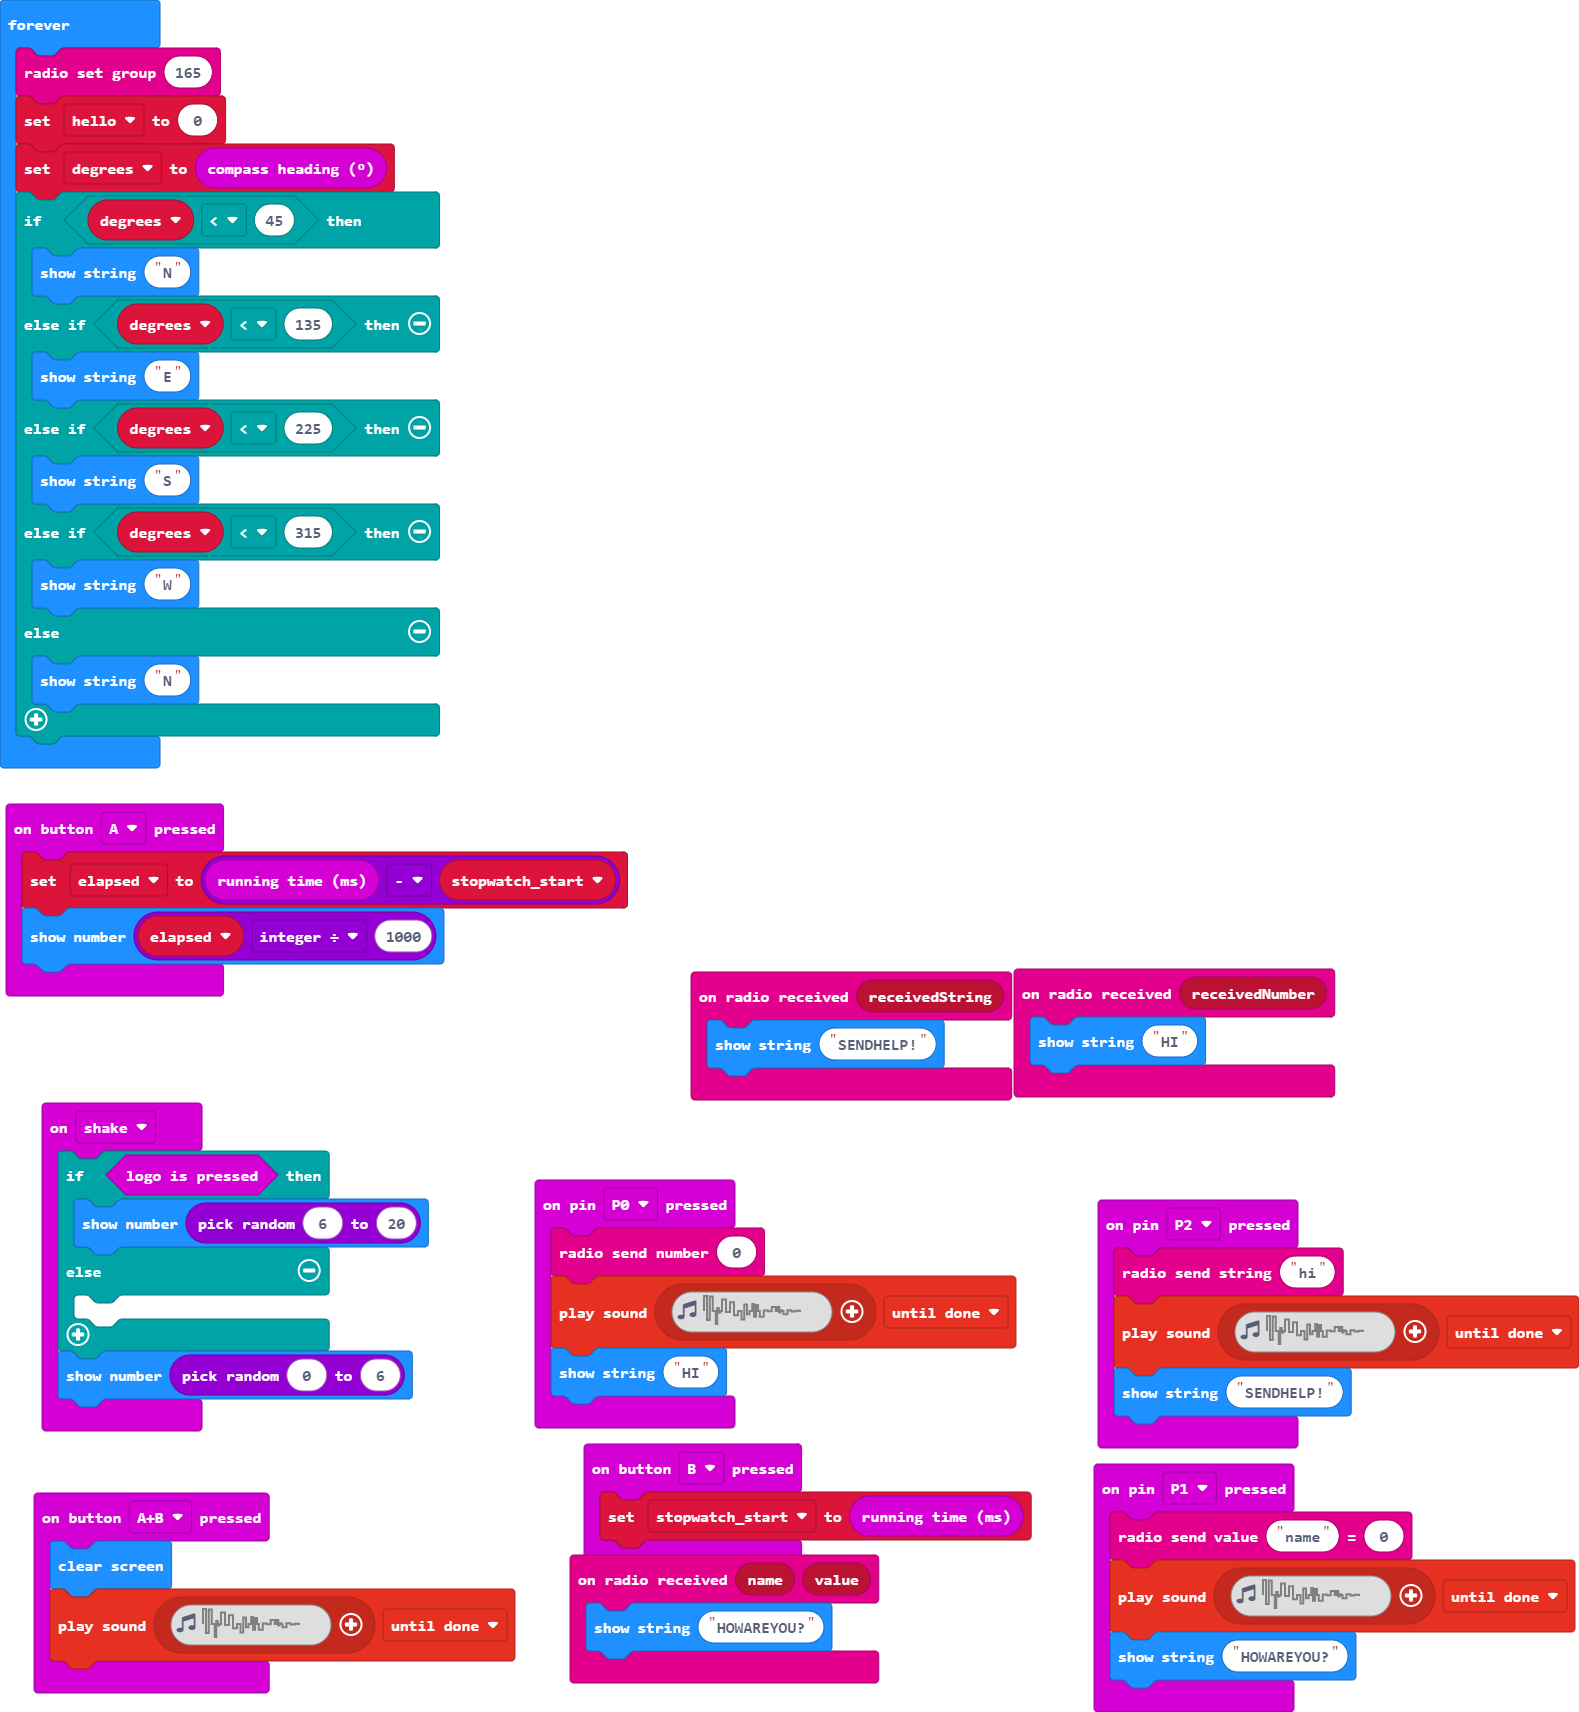
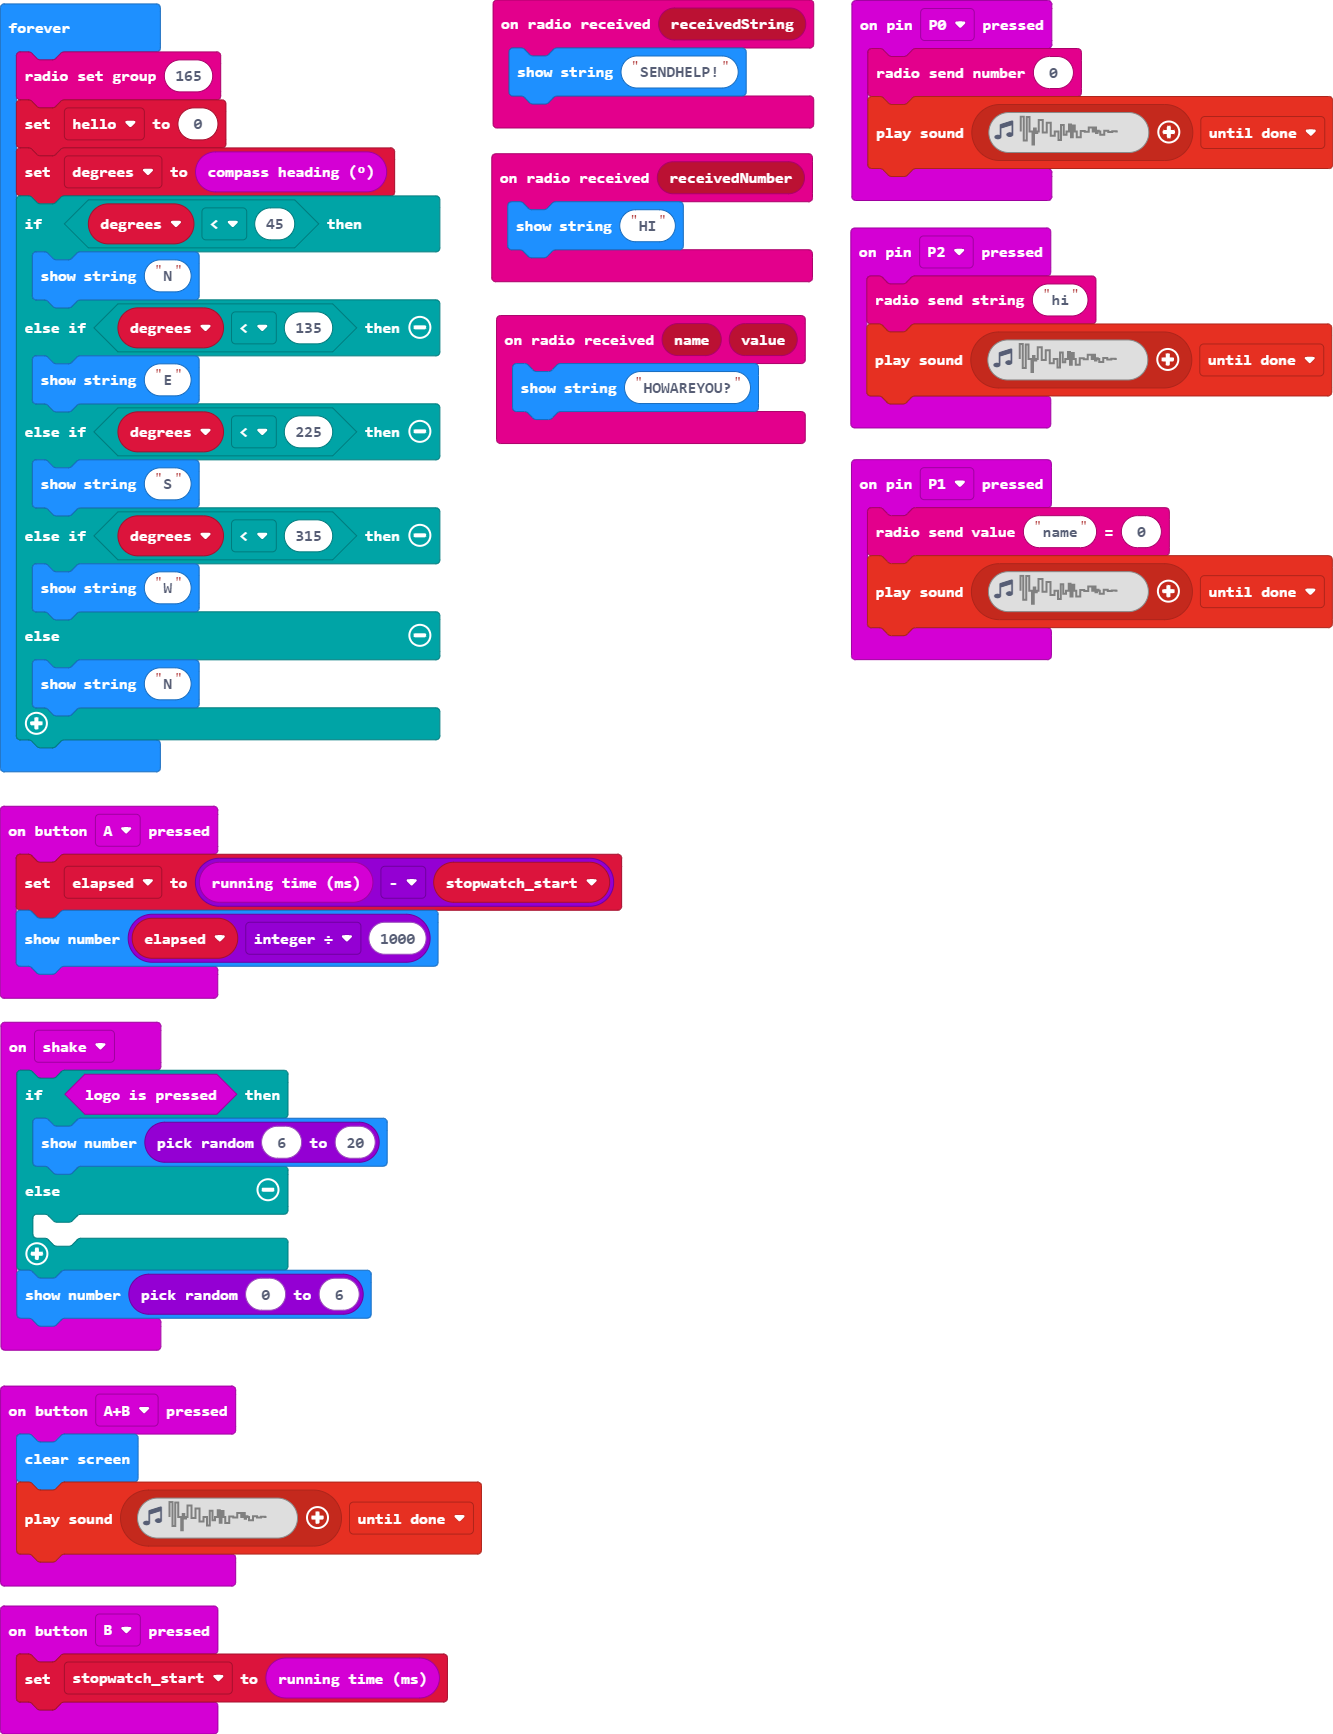
CHANGED TOO MUCH, MOSTLY ORGANIZING, BUT ALSO MORE MESSAGES!

diff --git a/main.ts b/main.ts
@@ -5,7 +5,6 @@ let degrees = 0
 input.onPinPressed(TouchPin.P0, function () {
     radio.sendNumber(0)
     music.playSoundEffect(music.createSoundEffect(WaveShape.Noise, 54, 54, 255, 0, 500, SoundExpressionEffect.None, InterpolationCurve.Linear), SoundExpressionPlayMode.UntilDone)
-    basic.showString("HI")
 })
 radio.onReceivedNumber(function (receivedNumber) {
     basic.showString("HI")
@@ -17,7 +16,6 @@ input.onButtonPressed(Button.A, function () {
 input.onPinPressed(TouchPin.P2, function () {
     radio.sendString("hi")
     music.playSoundEffect(music.createSoundEffect(WaveShape.Noise, 54, 54, 255, 0, 500, SoundExpressionEffect.None, InterpolationCurve.Linear), SoundExpressionPlayMode.UntilDone)
-    basic.showString("SENDHELP!")
 })
 input.onButtonPressed(Button.AB, function () {
     basic.clearScreen()
@@ -32,7 +30,6 @@ input.onButtonPressed(Button.B, function () {
 input.onPinPressed(TouchPin.P1, function () {
     radio.sendValue("name", 0)
     music.playSoundEffect(music.createSoundEffect(WaveShape.Noise, 54, 54, 255, 0, 500, SoundExpressionEffect.None, InterpolationCurve.Linear), SoundExpressionPlayMode.UntilDone)
-    basic.showString("HOWAREYOU?")
 })
 input.onGesture(Gesture.Shake, function () {
     if (input.logoIsPressed()) {
